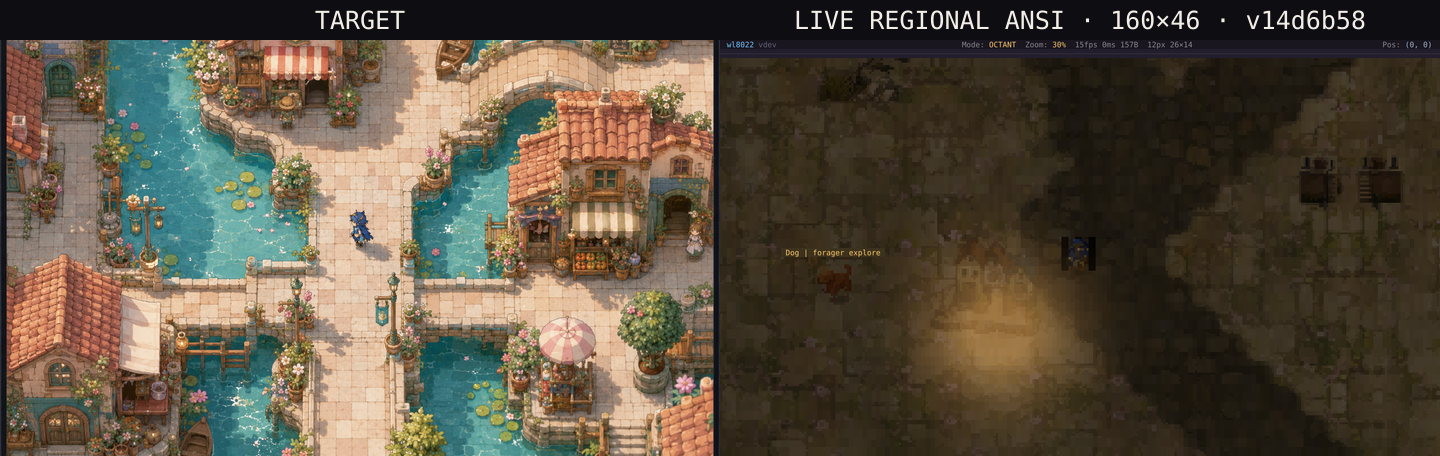
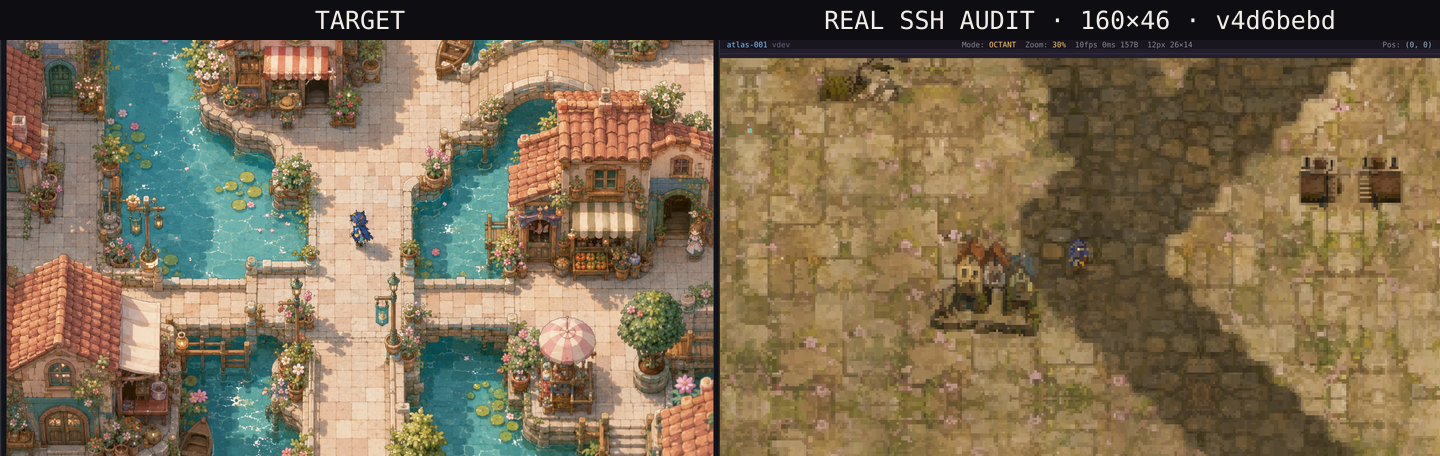
record rejected full acceptance atlas

diff --git a/tools/render-sim/gallery/index.html b/tools/render-sim/gallery/index.html
@@ -81,11 +81,20 @@
 <p>Faithful visual iterations from the terminal world renderer. Every frame below comes through the same provider and pixel pipeline used by the SSH experience; rejected experiments stay visible beside selected checkpoints.</p>
 </header>
 <section><h2>🎯 TARGET vs NOW</h2>
-<div class="grid"><figure style="grid-column:1/-1"><a href="/gallery/COMPARISON.png"><img loading="lazy" src="/gallery/COMPARISON.png" alt="target vs now"></a>
-<figcaption>Goal tracking: TARGET mockup vs the faithfully replayed live 160×46 SSH world.</figcaption></figure></div></section>
+<div class="grid"><figure style="grid-column:1/-1"><a href="/gallery/COMPARISON.png?v=4d6bebd"><img loading="lazy" src="/gallery/COMPARISON.png?v=4d6bebd" alt="target vs now"></a>
+<figcaption>Goal tracking: TARGET mockup vs the current faithfully replayed real-SSH audit frame. The iteration notes state whether the frame is live, isolated, selected, or rejected.</figcaption></figure></div></section>
 <section><h2>🎯 TARGET (mockup)</h2>
 <div class="grid"><figure><a href="/gallery/TARGET.png"><img loading="lazy" src="/gallery/TARGET.png" alt="target mockup"></a>
 <figcaption>The goal: a dense, warm, painterly canal-town rendered as pure ANSI in Ghostty.</figcaption></figure></div></section>
+<section><h2>031-full-acceptance-atlas-audit</h2><pre class="notes"># 031-full-acceptance-atlas-audit
+
+2026-07-24T12:29:58.311Z
+
+REJECTED Gate-A audit on production build v4d6bebd. Complete fixed atlas: 24 predetermined coordinates, six families, six transition pairs, three zooms, two Ghostty-class viewports, day/night/rain/storm, 144 raw SSH streams and faithful replays. The alpha-cutout defect is fixed. Direct full-sheet review still rejects composition density, repeated landmark hierarchy, angular routes, rectangular waterfront/crossing masses, compressed night readability, and storm loss of biome identity. Failed evidence is retained; this is not operator acceptance.
+</pre><div class="grid"><figure><a href="/gallery/031-full-acceptance-atlas-audit/atlas-v3-district-reference-all.png"><img loading="lazy" src="/gallery/031-full-acceptance-atlas-audit/atlas-v3-district-reference-all.png" alt="atlas-v3-district-reference-all.png"></a><figcaption>atlas-v3-district-reference-all.png</figcaption></figure>
+<figure><a href="/gallery/031-full-acceptance-atlas-audit/atlas-v3-origin-alpha-fixed.png"><img loading="lazy" src="/gallery/031-full-acceptance-atlas-audit/atlas-v3-origin-alpha-fixed.png" alt="atlas-v3-origin-alpha-fixed.png"></a><figcaption>atlas-v3-origin-alpha-fixed.png</figcaption></figure>
+<figure><a href="/gallery/031-full-acceptance-atlas-audit/atlas-v3-regional-reference-all.png"><img loading="lazy" src="/gallery/031-full-acceptance-atlas-audit/atlas-v3-regional-reference-all.png" alt="atlas-v3-regional-reference-all.png"></a><figcaption>atlas-v3-regional-reference-all.png</figcaption></figure>
+<figure><a href="/gallery/031-full-acceptance-atlas-audit/atlas-v3-walking-reference-all.png"><img loading="lazy" src="/gallery/031-full-acceptance-atlas-audit/atlas-v3-walking-reference-all.png" alt="atlas-v3-walking-reference-all.png"></a><figcaption>atlas-v3-walking-reference-all.png</figcaption></figure></div></section>
 <section><h2>030-live-regional-world-deployment</h2><pre class="notes"># 030-live-regional-world-deployment
 
 2026-07-24T11:01:13.604Z

diff --git a/NEXT-GOAL.md b/NEXT-GOAL.md
@@ -688,9 +688,32 @@ Completed foundations:
   Full verification is 36 files / 189 tests, 18/18 typecheck tasks, and 12/12
   build tasks. No image generation or metered model call was used. This closes
   production activation, not the remaining atlas/load/life/human-display gates;
+- the fixed acceptance-atlas contract now has a loopback-only executable that
+  exercises the real `ssh2 -> SessionProxy -> WorkerManager -> WorkerSession`
+  path against an owned scratch database. The committed manifest fixes 24
+  distinct walkable coordinates, three strong sites per family, six transition
+  pairs, three semantic zooms, two Ghostty-class viewports, and four assigned
+  day/night/rain/storm environments. Its first 72-frame run honestly exposed a
+  universal black traveler backing: Sharp's default opaque padding had turned
+  the portrait fallback into a square, partial alpha was discarded, and actors
+  bypassed the linear-light compositor. The rejected half-atlas is retained.
+  Explicit transparent padding, preserved coverage, and actor alpha-over remove
+  the cut-out; 9 focused tests and a real-SSH smoke frame prove the correction.
+  Commit `4d6bebd` passed 37 files / 193 tests, 18/18 typecheck tasks, and 12/12
+  build tasks, then hot-reloaded live as `v4d6bebd` with exact NPC checkpoint/
+  restore and zero connected sessions. The fresh final audit retains all 144
+  raw SSH streams, 144 faithful replays, 3,560 synchronized frames, and
+  62,939,851 bytes; all 288 raw/image hashes match. Direct review of complete
+  walking/district/regional sheets nevertheless **rejects Gate A**: composition
+  is too sparse and repetitive, routes remain angular/uniform, coast crossings
+  expose slabs, night crushes hierarchy, and storm erases place identity. The
+  exact rejection and next pass live under
+  `track-6-acceptance-atlas/acceptance-atlas-v3-final/FINDINGS.md`; public gallery
+  iteration 031 exposes the non-cherry-picked sheets. This is audit completion,
+  not visual acceptance. No image generation or metered model call was used;
 - rejected wallpaper, dense-grid, over-sparse, solver-staircase, and regional
   root-ring experiments remain in the mounted research record; public gallery
-  iterations 012–030 expose selected and rejected research candidates without
+  iterations 012–031 expose selected and rejected research candidates without
   claiming they are live.
 
 Still open and therefore goal-blocking:
@@ -718,9 +741,12 @@ Still open and therefore goal-blocking:
   checks, natural conversations and plans, richer event coordination,
   player-caused persisted world change, coherent fronts, long-horizon geometric
   growth/decay, and production multi-human integration remain open;
-- the 24-coordinate multi-zoom/time/weather atlas, deterministic traversal,
-  load ladder, 30-minute terminal run, and physical Ghostty acceptance all
-  remain open.
+- the 24-coordinate multi-zoom/time/weather atlas is now complete as an honest
+  **failed** visual audit. Gate A remains open until the recorded composition,
+  route/crossing, night/storm, and dynamically enumerated material-boundary
+  failures are corrected and the exact fixed atlas passes on a fresh build.
+  Deterministic traversal, the load ladder, 30-minute terminal run, and physical
+  Ghostty acceptance also remain open.
 
 This ledger records real progress and the remaining distance. It does not
 relax, subdivide, or supersede any proof gate above.

diff --git a/docs/RENDERING.md b/docs/RENDERING.md
@@ -1,6 +1,6 @@
 # The Maldoror rendering engine
 
-*Current production truth, 2026-07-23. Visual evidence is published at
+*Current production truth, 2026-07-24. Visual evidence is published at
 <https://maldoror.dev/gallery>.*
 
 Maldoror renders an AI-authored world as pure ANSI. The current path is one
@@ -178,3 +178,28 @@ and exact `(17,-11)` to `(0,0)` login test live under
 `/mnt/donto-data/donto-resources/maldoror/rendering-research/track-5-motion-transport/live-regional-deploy-v1/`.
 Public gallery iteration 030 shows the selected faithful frame. Physical
 Ghostty acceptance and sustained concurrency remain open.
+
+### Fixed real-SSH acceptance atlas (2026-07-24)
+
+Build `v4d6bebd` adds a separate loopback-only acceptance executable and an
+owned scratch-Postgres harness. Production has no environment flag that can
+enable fixture restoration. The fixed manifest covers 24 predetermined
+coordinates, all six families, six transition pairs, three semantic zooms, two
+Ghostty-class viewports, and day/clear, night/clear, day/rain, and night/storm.
+Every capture travels through the real SSH/session/worker/render path and
+retains its raw ANSI stream, faithful replay, dimensions, synchronized-frame
+count, and SHA-256.
+
+The completed audit contains 144/144 captures and 3,560 synchronized frames;
+all 288 raw/image hashes match. It is intentionally **rejected**, not accepted.
+The full sheets expose sparse/repeated composition, angular routes, rectangular
+waterfront/crossing masses, crushed night hierarchy, and storm precipitation
+that overwhelms biome identity. They also prove the alpha correction: Sharp
+contain-padding is explicitly transparent, partial coverage survives loading,
+and actors use linear-light alpha-over, eliminating the earlier black traveler
+rectangle.
+
+Evidence and the exact rejection are in
+`/mnt/donto-data/donto-resources/maldoror/rendering-research/track-6-acceptance-atlas/acceptance-atlas-v3-final/`.
+Public gallery iteration 031 exposes the walking, district, and regional review
+sheets. A successful Gate-A atlas and physical Ghostty acceptance remain open.

diff --git a/docs/BUILD-BRIEF.md b/docs/BUILD-BRIEF.md
@@ -216,8 +216,9 @@ octant), `MALDOROR_ASSET_ROOT=<repo-or-release-root>`, and
 `MALDOROR_CANAL_TOWN=0` may additionally expose the legacy
 `MALDOROR_DISTRICT=<png>` experiment. A regional startup error is fatal rather
 than silently showing a different world.
-Current live checkpoint: `v14d6b58` (regional world plus bounded terminal
-atmosphere cadence), activated 2026-07-24 with additive migrations 0008-0009.
+Current live checkpoint: `v4d6bebd` (regional world, bounded terminal
+atmosphere cadence, real-SSH atlas harness, and corrected actor alpha),
+hot-reloaded 2026-07-24 after the additive migrations 0008-0009 activation.
 Worker boot takes ~30-90s under load (module load off sdb) — patience, not a
 hang. `.service`/`.slice` mirrored in `deploy/box/`; `deploy/box/redeploy.sh` =
 full build+tsup+push+restart.
@@ -271,8 +272,11 @@ full build+tsup+push+restart.
 5. **turbo build clobbers the db ESM bundle** (§4).
 6. **A frame drop breaks retained deltas.** Never drop one and continue as if
    the terminal received it; request a keyframe first.
-7. Sprites have a baked-in dark alpha fringe → despeckle at load
-   (`sprite-hygiene.ts`); raise generation alpha threshold.
+7. **Alpha has two distinct failure modes.** Historical opaque fringe pixels
+   still use `sprite-hygiene.ts`, but authored partial alpha must be preserved
+   and composited in linear light. Sharp `fit:'contain'` defaults to opaque
+   black padding unless `background.alpha=0` is explicit; that produced a
+   universal square behind the fallback traveler and is now regression-tested.
 8. **Image protocols are banned** — the user vetoed kitty graphics. Terminal
    glyphs only.
 

diff --git a/docs/WORLD-COMPOSITION.md b/docs/WORLD-COMPOSITION.md
@@ -226,8 +226,14 @@ while preserving immediate weather/season transitions and one-second localized
 rain/storm animation. Repeating the live capture retains 90 synchronized frames
 at 19,787 steady bytes, a 98.51% reduction with zero full-world idle repaints.
 
-These are live bounded measurements, not Gate-D completion. The 5/10/20-
-presence ladder, 30-minute run, and physical Ghostty proof remain open.
+These are live bounded measurements, not Gate-D completion. The subsequent
+fixed 144-frame real-SSH atlas at `v4d6bebd` confirms organic material blends
+and correct traveler alpha, but rejects the current composition at Gate A for
+sparsity/repetition, angular route ribbons, rectangular crossing masses, night
+compression, and storm loss of identity. The complete failed sheets and raw
+streams are retained under `track-6-acceptance-atlas/acceptance-atlas-v3-final/`.
+The 5/10/20-presence ladder, 30-minute run, corrective composition pass, and
+physical Ghostty proof remain open.
 
 ## Non-periodic asset placement
 

diff --git a/tools/render-sim/gallery/031-full-acceptance-atlas-audit/notes.md b/tools/render-sim/gallery/031-full-acceptance-atlas-audit/notes.md
@@ -1,0 +1,5 @@
+# 031-full-acceptance-atlas-audit
+
+2026-07-24T12:29:58.311Z
+
+REJECTED Gate-A audit on production build v4d6bebd. Complete fixed atlas: 24 predetermined coordinates, six families, six transition pairs, three zooms, two Ghostty-class viewports, day/night/rain/storm, 144 raw SSH streams and faithful replays. The alpha-cutout defect is fixed. Direct full-sheet review still rejects composition density, repeated landmark hierarchy, angular routes, rectangular waterfront/crossing masses, compressed night readability, and storm loss of biome identity. Failed evidence is retained; this is not operator acceptance.
